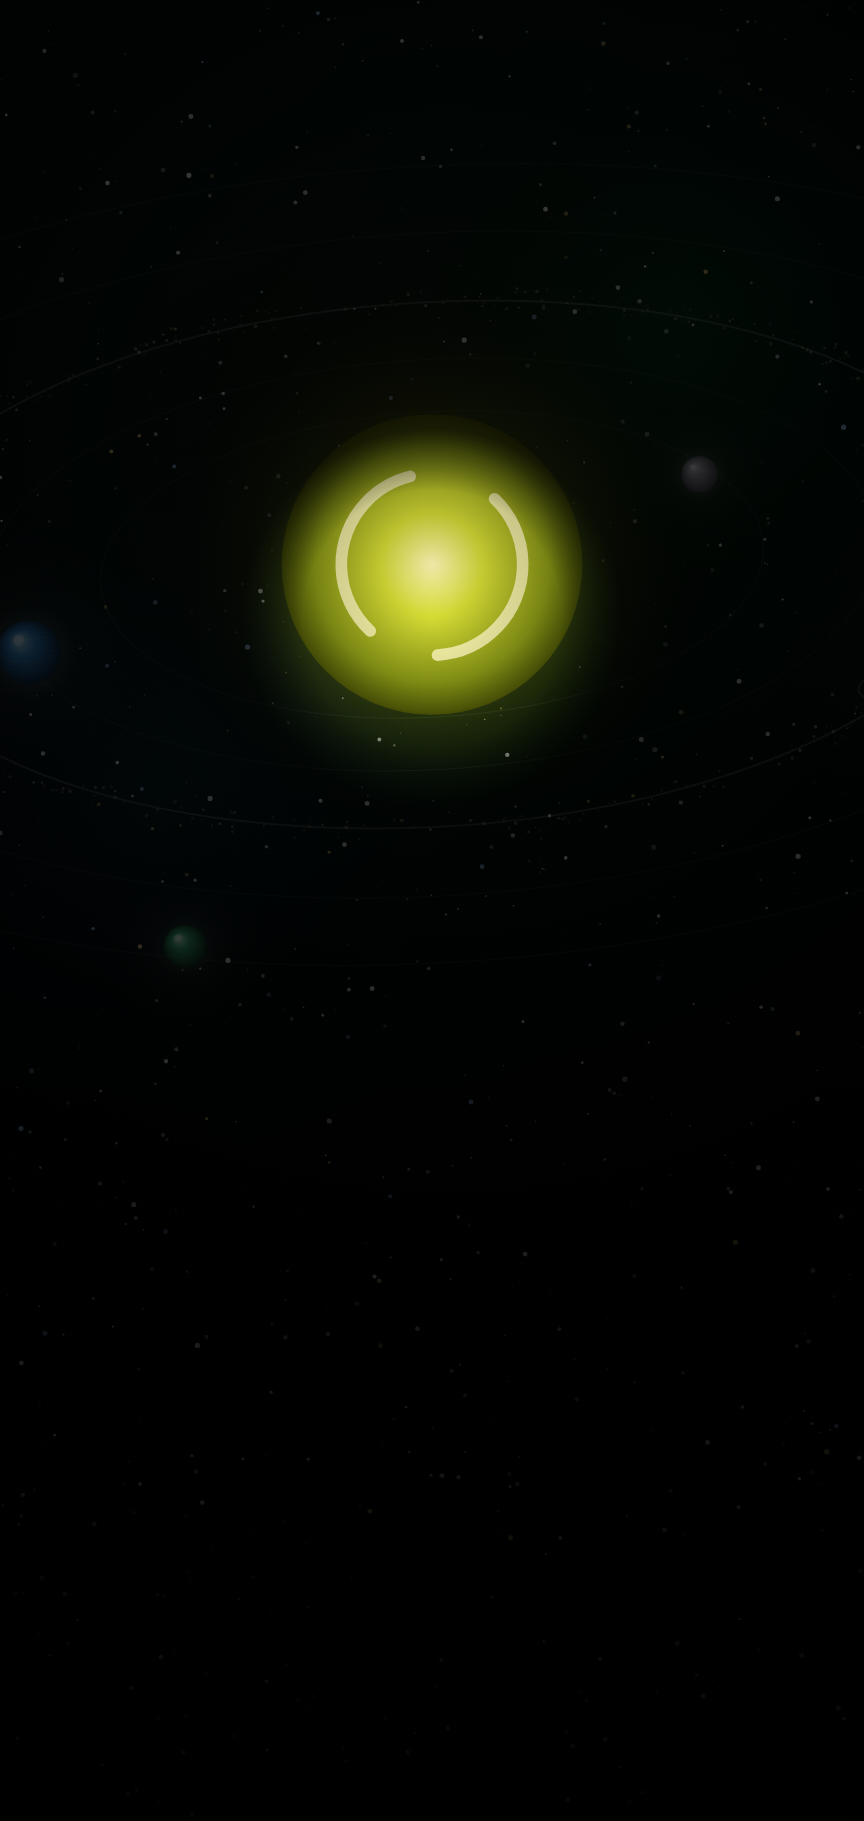
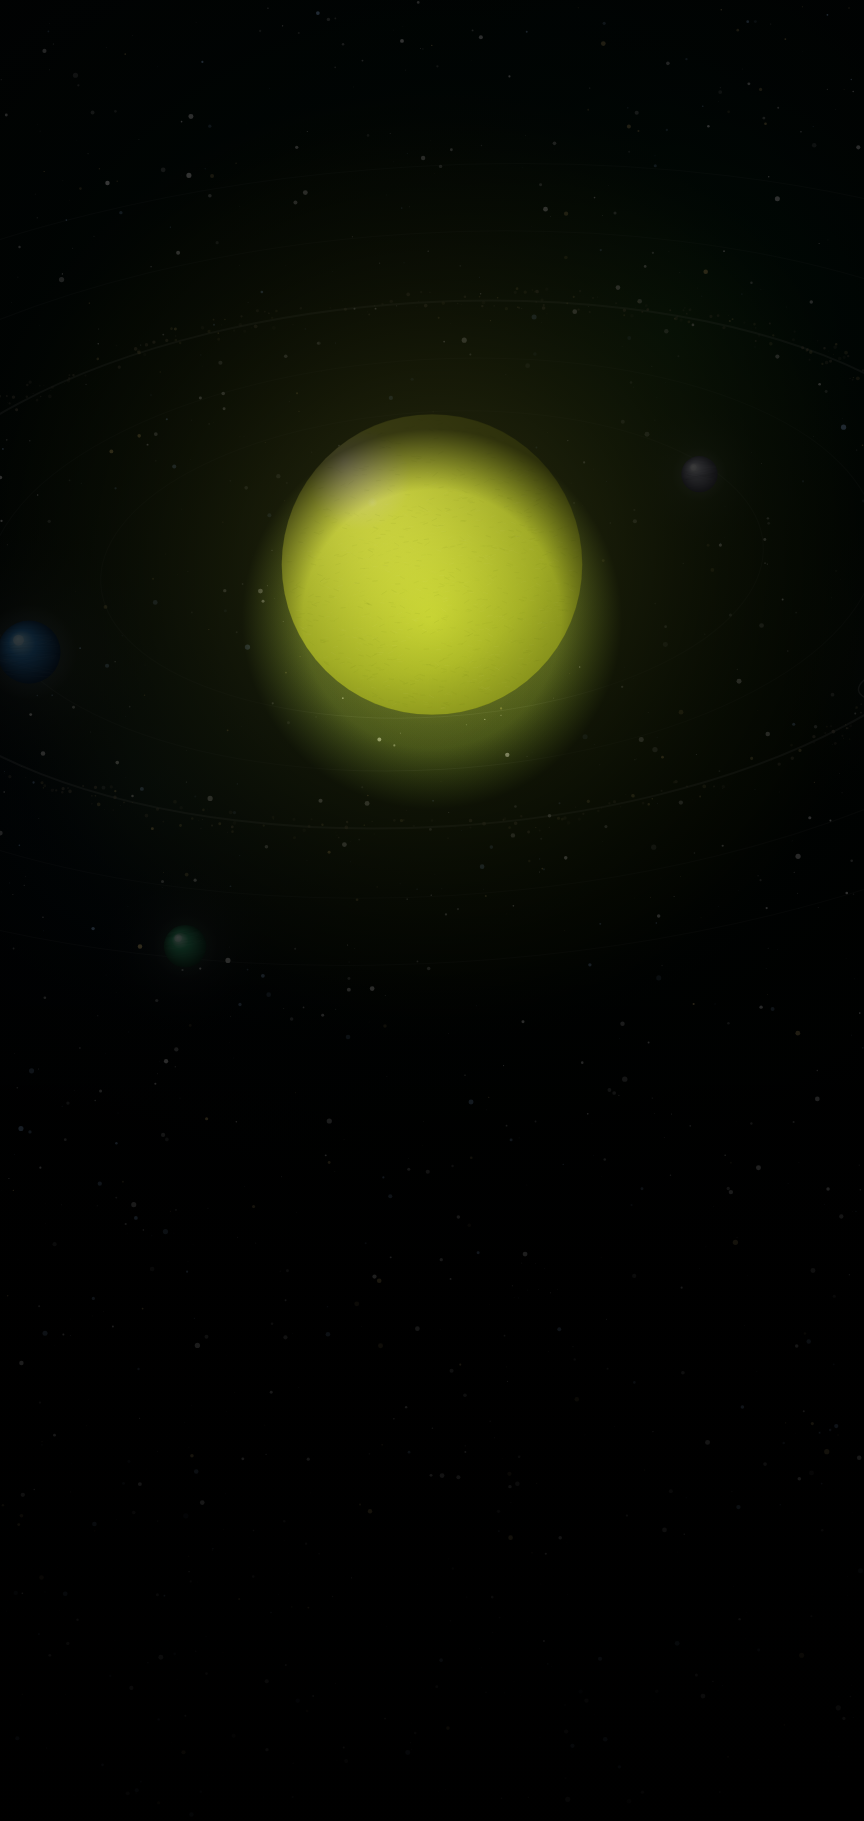
pic change

Changed region(s): [[0.2812, 0.2153, 0.7188, 0.4613]]

diff --git a/app/data/projects.ts b/app/data/projects.ts
@@ -116,6 +116,43 @@ export const PROJECTS: Project[] = [
   },
   {
     num:   "03",
+    env:   "COMMERCIAL_PLATFORM",
+    date:  "2025.11-2026.02",
+    title: "Zendulge",
+    tagline: "Full-stack local services, deals, bookings, and payment platform built across separate React and Express applications.",
+    highlights: [
+      {
+        emphasis: "Commercial full-stack platform:",
+        text: "Contributed three months of development to an unreleased commercial local-services platform supporting customer deal discovery, bookings, payments, merchant operations, and superadmin workflows.",
+      },
+      {
+        emphasis: "Frontend feature delivery:",
+        text: "Developed and maintained React 19, TypeScript, Vite, Tailwind CSS 4, Radix UI, React Hook Form, Zod, Axios, and React Router 7 functionality across customer, merchant, onboarding, and admin user flows.",
+      },
+      {
+        emphasis: "Backend API integration:",
+        text: "Implemented and integrated Node.js, Express, TypeScript, MongoDB, and Mongoose REST APIs covering authentication, user management, business operations, deals, services, appointments, and platform administration.",
+      },
+      {
+        emphasis: "Payments, storage, and email:",
+        text: "Contributed to Stripe checkout and transaction workflows, AWS S3 file upload support, AWS SES automated email delivery, and related backend service-layer integration work.",
+      },
+      {
+        emphasis: "Multi-role product workflows:",
+        text: "Worked across Customer, Business Owner, Manager, Employee, and Superadmin roles, including merchant onboarding, business review, service and deal management, appointments, customers, categories, platform revenue, backups, and feature flags.",
+      },
+      {
+        emphasis: "Engineering quality and delivery:",
+        text: "Built reusable UI components, validation logic, API service layers, and data models while participating in debugging, testing, code reviews, Agile sprint activities, GitHub Actions CI/CD work, and Docker-based development workflows.",
+      },
+    ],
+    stack: ["REACT", "TYPESCRIPT", "NODE.JS", "EXPRESS", "MONGODB", "STRIPE", "AWS", "VITE"],
+    cardImage: "/images/zendulge-card.png",
+    detailImage: "/images/zendulge-detail-portrait.png",
+    detailImageMobile: "/images/zendulge-detail-landscape.png",
+  },
+  {
+    num:   "04",
     env:   "PERSONAL_PORTFOLIO",
     date:  "2026.02-PRESENT",
     title: "JohnnyPage",
@@ -135,7 +172,7 @@ export const PROJECTS: Project[] = [
       },
       {
         emphasis: "Modern frontend foundation:",
-        text: "Built the app with Next.js 16, React 19, TypeScript, Tailwind CSS 4, and modular client components for navigation, animated labels, and view-specific UI blocks.",
+        text: "Built the app with Next.js 16, React 19, TypeScript, Tailwind CSS 4, Three.js, and modular client components for navigation, animated labels, and view-specific UI blocks.",
       },
     ],
     stack: ["NEXT.JS", "REACT", "TYPESCRIPT", "TAILWIND", "THREE.JS"],
@@ -145,29 +182,5 @@ export const PROJECTS: Project[] = [
     cardImage: "/images/johnnypage-detail-landscape.png",
     detailImage: "/images/johnnypage-detail-portrait.png",
     detailImageMobile: "/images/johnnypage-detail-landscape.png",
-  },
-  {
-    num:   "04",
-    env:   "ARCHIVE",
-    date:  "2023.11",
-    title: "Asset Pipeline",
-    tagline: "Automation layer for media processing and cloud delivery.",
-    highlights: [
-      {
-        emphasis: "Automated processing flow:",
-        text: "Automated ingest, validation, transformation, and publishing steps.",
-      },
-      {
-        emphasis: "Environment-aware deployment:",
-        text: "Added environment-aware deployment rules for shared cloud storage.",
-      },
-      {
-        emphasis: "Job observability:",
-        text: "Improved observability around failed jobs and retry behavior.",
-      },
-    ],
-    stack: ["PYTHON", "AWS"],
-    cardImage: "/images/asset-pipeline.png",
-    detailImage: "/images/asset-pipeline.png",
   },
 ];
